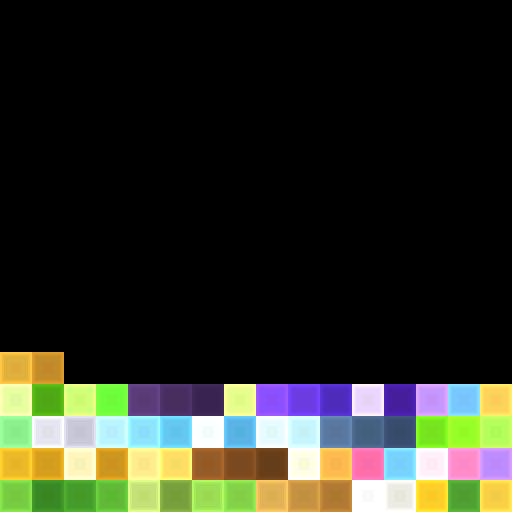
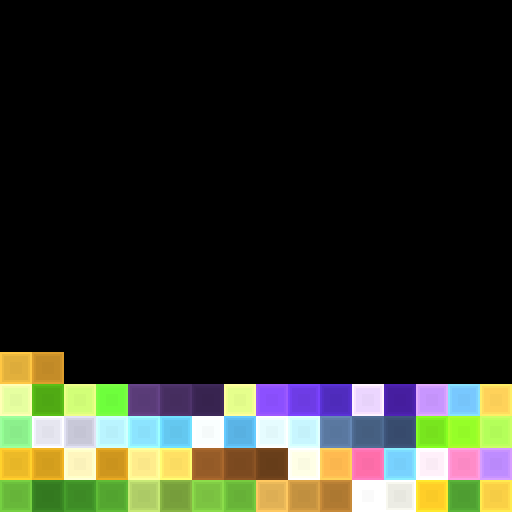
Voxel bundles: deeper greens for the plain grass (the first ones glowed in Studio's light); Luau builder for a local plugin (the Studio MCP may not upload meshes)
Claude-Session: https://claude.ai/code/session_01Y6R1TCJgXcsjisMkct18nQ

Changed region(s): [[0.375, 0.9375, 0.5, 1.0]]

diff --git a/tools/blender/voxel/bundle.py b/tools/blender/voxel/bundle.py
@@ -37,7 +37,7 @@ BANDS = (4, 13)  # twine bands (x)
 
 # palettes per mutation: stems (3 shades), tips, cut end, cut centre, twine (2), knot; extra sparkle colour
 PALETTES = {
-    "None": dict(stems=[(70, 156, 42), (96, 186, 54), (120, 204, 66), (58, 136, 36)], tips=[(156, 222, 86), (132, 210, 72)], daisy=True, cut=(196, 226, 120), core=(120, 160, 60), twine=[(226, 178, 86), (196, 146, 64)], knot=(176, 122, 50)),
+    "None": dict(stems=[(62, 140, 38), (84, 166, 48), (104, 184, 58), (52, 122, 32)], tips=[(124, 196, 66), (104, 180, 56)], daisy=True, cut=(176, 206, 104), core=(120, 160, 60), twine=[(226, 178, 86), (196, 146, 64)], knot=(176, 122, 50)),
     "Golden": dict(stems=[(236, 186, 40), (250, 208, 70), (214, 160, 30)], tips=[(255, 236, 140), (255, 224, 100)], cut=(255, 246, 190), core=(206, 150, 30), twine=[(150, 92, 40), (124, 74, 32)], knot=(104, 62, 26), sparkle=(255, 255, 230)),
     "Rainbow": dict(stems=[(255, 110, 170), (255, 186, 80), (120, 210, 255)], tips=[(190, 140, 255), (140, 240, 140)], cut=(255, 240, 250), core=(255, 140, 200), twine=[(255, 255, 255), (230, 230, 240)], knot=(200, 200, 216), sparkle=(255, 255, 255)),
     "Diamond": dict(stems=[(140, 228, 255), (186, 244, 255), (100, 200, 240)], tips=[(230, 252, 255), (200, 246, 255)], cut=(250, 255, 255), core=(90, 180, 230), twine=[(90, 120, 160), (70, 96, 130)], knot=(56, 76, 110), sparkle=(255, 255, 255)),
